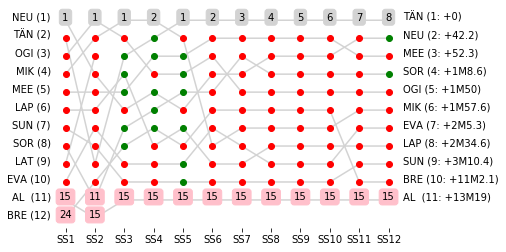
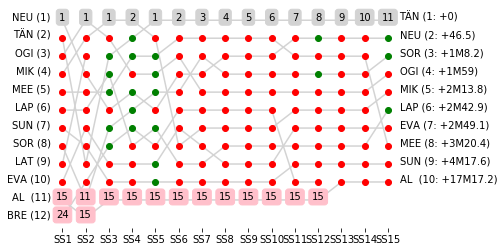
section 8 & 9

diff --git a/Section 8_report.md b/Section 8_report.md
@@ -18,63 +18,67 @@ The full scheduled itinerary for the section was as follows:
 
 
 
+
+
 ### Section 8 Report
 Section 8
 
-![](images/spchart_stage_Section 8.png)
+![](images/spchart_stage_Section 8.png)Section 8
+
+![](images/spchart_overall_Section 8.png)
 Stage Result - SS13
 
-|Driver|            Team             |Elapsed Duration|Position|Class Rank|diffFirst|diffPrev|
-|------|-----------------------------|----------------|--------|----------|---------|--------|
-|SOR   |HYUNDAI SHELL MOBIS WRT      |                |NaN     |NaN       |         |        |
-|OGI   |M-SPORT FORD WORLD RALLY TEAM|                |NaN     |NaN       |         |        |
-|BRE   |CITROEN TOTAL ABU DHABI WRT  |                |NaN     |NaN       |         |        |
-|MEE   |CITROEN TOTAL ABU DHABI WRT  |                |NaN     |NaN       |         |        |
-|NEU   |HYUNDAI SHELL MOBIS WRT      |                |NaN     |NaN       |         |        |
-|TÄN   |TOYOTA GAZOO RACING WRT      |                |NaN     |NaN       |         |        |
-|SUN   |M-SPORT FORD WORLD RALLY TEAM|                |NaN     |NaN       |         |        |
-|AL    |CITROEN TOTAL ABU DHABI WRT  |                |NaN     |NaN       |         |        |
-|EVA   |M-SPORT FORD WORLD RALLY TEAM|                |NaN     |NaN       |         |        |
-|MIK   |HYUNDAI SHELL MOBIS WRT      |                |NaN     |NaN       |         |        |
-|LAP   |TOYOTA GAZOO RACING WRT      |                |NaN     |NaN       |         |        |
+|Driver|            Team             |Elapsed Duration|Position|Class Rank|   diffFirst    |    diffPrev    |
+|------|-----------------------------|----------------|-------:|---------:|----------------|----------------|
+|TÄN   |TOYOTA GAZOO RACING WRT      |00:08:59.9000000|       1|         1|00:00:00        |00:00:00        |
+|NEU   |HYUNDAI SHELL MOBIS WRT      |00:09:02.1000000|       2|         2|00:00:02.2000000|00:00:02.2000000|
+|MEE   |CITROEN TOTAL ABU DHABI WRT  |00:09:02.8000000|       3|         3|00:00:02.9000000|00:00:00.7000000|
+|OGI   |M-SPORT FORD WORLD RALLY TEAM|00:09:03.4000000|       4|         4|00:00:03.5000000|00:00:00.6000000|
+|SOR   |HYUNDAI SHELL MOBIS WRT      |00:09:04.8000000|       5|         5|00:00:04.9000000|00:00:01.4000000|
+|LAP   |TOYOTA GAZOO RACING WRT      |00:09:05.5000000|       6|         6|00:00:05.6000000|00:00:00.7000000|
+|MIK   |HYUNDAI SHELL MOBIS WRT      |00:09:07.2000000|       7|         7|00:00:07.3000000|00:00:01.7000000|
+|SUN   |M-SPORT FORD WORLD RALLY TEAM|00:09:13.4000000|       8|         8|00:00:13.5000000|00:00:06.2000000|
+|EVA   |M-SPORT FORD WORLD RALLY TEAM|00:09:14.9000000|       9|         9|00:00:15        |00:00:01.5000000|
+|AL    |CITROEN TOTAL ABU DHABI WRT  |00:09:37.1000000|      14|        10|00:00:37.2000000|00:00:04.6000000|
+|BRE   |CITROEN TOTAL ABU DHABI WRT  |                |     NaN|       NaN|                |                |
 
 
 
 
 Stage Result - SS14
 
-|Driver|            Team             |Elapsed Duration|Position|Class Rank|diffFirst|diffPrev|
-|------|-----------------------------|----------------|--------|----------|---------|--------|
-|OGI   |M-SPORT FORD WORLD RALLY TEAM|                |NaN     |NaN       |         |        |
-|BRE   |CITROEN TOTAL ABU DHABI WRT  |                |NaN     |NaN       |         |        |
-|SOR   |HYUNDAI SHELL MOBIS WRT      |                |NaN     |NaN       |         |        |
-|MEE   |CITROEN TOTAL ABU DHABI WRT  |                |NaN     |NaN       |         |        |
-|NEU   |HYUNDAI SHELL MOBIS WRT      |                |NaN     |NaN       |         |        |
-|SUN   |M-SPORT FORD WORLD RALLY TEAM|                |NaN     |NaN       |         |        |
-|AL    |CITROEN TOTAL ABU DHABI WRT  |                |NaN     |NaN       |         |        |
-|EVA   |M-SPORT FORD WORLD RALLY TEAM|                |NaN     |NaN       |         |        |
-|MIK   |HYUNDAI SHELL MOBIS WRT      |                |NaN     |NaN       |         |        |
-|LAP   |TOYOTA GAZOO RACING WRT      |                |NaN     |NaN       |         |        |
-|TÄN   |TOYOTA GAZOO RACING WRT      |                |NaN     |NaN       |         |        |
+|Driver|            Team             |Elapsed Duration|Position|Class Rank|   diffFirst    |    diffPrev    |
+|------|-----------------------------|----------------|-------:|---------:|----------------|----------------|
+|TÄN   |TOYOTA GAZOO RACING WRT      |00:08:15.5000000|       1|         1|00:00:00        |00:00:00        |
+|NEU   |HYUNDAI SHELL MOBIS WRT      |00:08:17.6000000|       2|         2|00:00:02.1000000|00:00:02.1000000|
+|SOR   |HYUNDAI SHELL MOBIS WRT      |00:08:17.6000000|       3|         3|00:00:02.1000000|00:00:00        |
+|OGI   |M-SPORT FORD WORLD RALLY TEAM|00:08:18.5000000|       4|         4|00:00:03        |00:00:00.9000000|
+|LAP   |TOYOTA GAZOO RACING WRT      |00:08:18.9000000|       5|         5|00:00:03.4000000|00:00:00.4000000|
+|MEE   |CITROEN TOTAL ABU DHABI WRT  |00:08:19.7000000|       6|         6|00:00:04.2000000|00:00:00.8000000|
+|MIK   |HYUNDAI SHELL MOBIS WRT      |00:08:20.2000000|       7|         7|00:00:04.7000000|00:00:00.5000000|
+|SUN   |M-SPORT FORD WORLD RALLY TEAM|00:08:28.4000000|       8|         8|00:00:12.9000000|00:00:08.2000000|
+|EVA   |M-SPORT FORD WORLD RALLY TEAM|00:08:30        |       9|         9|00:00:14.5000000|00:00:01.6000000|
+|AL    |CITROEN TOTAL ABU DHABI WRT  |00:08:55.2000000|      13|        10|00:00:39.7000000|00:00:07.3000000|
+|BRE   |CITROEN TOTAL ABU DHABI WRT  |                |     NaN|       NaN|                |                |
 
 
 
 
 Stage Result - SS15
 
-|Driver|            Team             |Elapsed Duration|Position|Class Rank|diffFirst|diffPrev|
-|------|-----------------------------|----------------|--------|----------|---------|--------|
-|OGI   |M-SPORT FORD WORLD RALLY TEAM|                |NaN     |NaN       |         |        |
-|BRE   |CITROEN TOTAL ABU DHABI WRT  |                |NaN     |NaN       |         |        |
-|MEE   |CITROEN TOTAL ABU DHABI WRT  |                |NaN     |NaN       |         |        |
-|NEU   |HYUNDAI SHELL MOBIS WRT      |                |NaN     |NaN       |         |        |
-|SOR   |HYUNDAI SHELL MOBIS WRT      |                |NaN     |NaN       |         |        |
-|MIK   |HYUNDAI SHELL MOBIS WRT      |                |NaN     |NaN       |         |        |
-|SUN   |M-SPORT FORD WORLD RALLY TEAM|                |NaN     |NaN       |         |        |
-|AL    |CITROEN TOTAL ABU DHABI WRT  |                |NaN     |NaN       |         |        |
-|LAP   |TOYOTA GAZOO RACING WRT      |                |NaN     |NaN       |         |        |
-|EVA   |M-SPORT FORD WORLD RALLY TEAM|                |NaN     |NaN       |         |        |
-|TÄN   |TOYOTA GAZOO RACING WRT      |                |NaN     |NaN       |         |        |
+|Driver|            Team             |Elapsed Duration|Position|Class Rank|   diffFirst    |    diffPrev    |
+|------|-----------------------------|----------------|-------:|---------:|----------------|----------------|
+|SOR   |HYUNDAI SHELL MOBIS WRT      |00:24:03        |       1|         1|00:00:00        |00:00:00        |
+|LAP   |TOYOTA GAZOO RACING WRT      |00:24:09.7000000|       2|         2|00:00:06.7000000|00:00:06.7000000|
+|NEU   |HYUNDAI SHELL MOBIS WRT      |00:24:10.4000000|       3|         3|00:00:07.4000000|00:00:00.7000000|
+|TÄN   |TOYOTA GAZOO RACING WRT      |00:24:10.4000000|       4|         4|00:00:07.4000000|00:00:00        |
+|OGI   |M-SPORT FORD WORLD RALLY TEAM|00:24:12.9000000|       5|         5|00:00:09.9000000|00:00:02.5000000|
+|MIK   |HYUNDAI SHELL MOBIS WRT      |00:24:14.6000000|       6|         6|00:00:11.6000000|00:00:01.7000000|
+|EVA   |M-SPORT FORD WORLD RALLY TEAM|00:24:24.7000000|       7|         7|00:00:21.7000000|00:00:10.1000000|
+|SUN   |M-SPORT FORD WORLD RALLY TEAM|00:24:51.2000000|       8|         8|00:00:48.2000000|00:00:26.5000000|
+|MEE   |CITROEN TOTAL ABU DHABI WRT  |00:26:31.4000000|      14|         9|00:02:28.4000000|00:00:08.8000000|
+|AL    |CITROEN TOTAL ABU DHABI WRT  |00:26:51.7000000|      17|        10|00:02:48.7000000|00:00:09.9000000|
+|BRE   |CITROEN TOTAL ABU DHABI WRT  |                |     NaN|       NaN|                |                |
 
 
 

diff --git a/Section 9_report.md b/Section 9_report.md
@@ -12,20 +12,44 @@ The full scheduled itinerary for the section was as follows:
 	- 09:55:00 SS17 GIULIO CESARE - MINA CLAVERO (22.41km) [00:03:00]
 	- 11:40:00 TC17A Regrouping and Reordering IN (91.8km) [01:45:00]
 
-### Section 9 Report
 
+
+### Section 9 Report
+Section 9
+
+![](images/spchart_stage_Section 9.png)
 Stage Result - SS16
 
-|Driver|Team|Elapsed Duration|Position|Class Rank|diffFirst|diffPrev|
-|------|----|----------------|--------|----------|---------|--------|
+|Driver|            Team             |Elapsed Duration|Position|Class Rank|diffFirst|diffPrev|
+|------|-----------------------------|----------------|--------|----------|---------|--------|
+|SOR   |HYUNDAI SHELL MOBIS WRT      |                |NaN     |NaN       |         |        |
+|OGI   |M-SPORT FORD WORLD RALLY TEAM|                |NaN     |NaN       |         |        |
+|MIK   |HYUNDAI SHELL MOBIS WRT      |                |NaN     |NaN       |         |        |
+|NEU   |HYUNDAI SHELL MOBIS WRT      |                |NaN     |NaN       |         |        |
+|LAP   |TOYOTA GAZOO RACING WRT      |                |NaN     |NaN       |         |        |
+|EVA   |M-SPORT FORD WORLD RALLY TEAM|                |NaN     |NaN       |         |        |
+|MEE   |CITROEN TOTAL ABU DHABI WRT  |                |NaN     |NaN       |         |        |
+|SUN   |M-SPORT FORD WORLD RALLY TEAM|                |NaN     |NaN       |         |        |
+|AL    |CITROEN TOTAL ABU DHABI WRT  |                |NaN     |NaN       |         |        |
+|TÄN   |TOYOTA GAZOO RACING WRT      |                |NaN     |NaN       |         |        |
 
 
 
 
 Stage Result - SS17
 
-|Driver|Team|Elapsed Duration|Position|Class Rank|diffFirst|diffPrev|
-|------|----|----------------|--------|----------|---------|--------|
+|Driver|            Team             |Elapsed Duration|Position|Class Rank|diffFirst|diffPrev|
+|------|-----------------------------|----------------|--------|----------|---------|--------|
+|SOR   |HYUNDAI SHELL MOBIS WRT      |                |NaN     |NaN       |         |        |
+|OGI   |M-SPORT FORD WORLD RALLY TEAM|                |NaN     |NaN       |         |        |
+|MIK   |HYUNDAI SHELL MOBIS WRT      |                |NaN     |NaN       |         |        |
+|LAP   |TOYOTA GAZOO RACING WRT      |                |NaN     |NaN       |         |        |
+|MEE   |CITROEN TOTAL ABU DHABI WRT  |                |NaN     |NaN       |         |        |
+|SUN   |M-SPORT FORD WORLD RALLY TEAM|                |NaN     |NaN       |         |        |
+|AL    |CITROEN TOTAL ABU DHABI WRT  |                |NaN     |NaN       |         |        |
+|EVA   |M-SPORT FORD WORLD RALLY TEAM|                |NaN     |NaN       |         |        |
+|NEU   |HYUNDAI SHELL MOBIS WRT      |                |NaN     |NaN       |         |        |
+|TÄN   |TOYOTA GAZOO RACING WRT      |                |NaN     |NaN       |         |        |
 
 
 

diff --git a/SUMMARY.md b/SUMMARY.md
@@ -24,6 +24,7 @@
   - [SS7 - AMBOY - YACANTO (II)](SS7_report.md)
   - [SS8 - SANTA ROSA - SAN AGUSTIN (II)](SS8_report.md)
 
+
 * [Section 6](Section 6_report.md)
   - [SS9 - TANTI - MATADEROS (I) ](SS9_report.md)
   - [SS10 - LOS GIGANTES - CUCHILLA NEVADA (I) - Live TV](SS10_report.md)
@@ -36,10 +37,3 @@
   - [SS13 - TANTI - MATADEROS (II) ](SS13_report.md)
   - [SS14 - LOS GIGANTES - CUCHILLA NEVADA (II) - Live TV](SS14_report.md)
   - [SS15 - CUCHILLA NEVADA - RIO PINTOS (II)](SS15_report.md)
-
-* [Section 9](Section 9_report.md)
-  - [SS16 - COPINA - EL CONDOR (Live TV)](SS16_report.md)
-  - [SS17 - GIULIO CESARE - MINA CLAVERO](SS17_report.md)
-
-* [Section 10](Section 10_report.md)
-  - [SS18 - Power Stage EL CONDOR (Live TV)](SS18_report.md)

diff --git a/SS13_report.md b/SS13_report.md
@@ -1,0 +1,3 @@
+# Stage Progress Chart - Argentina, 2018 - TÄN - SS13
+
+![](images/stage_report_13_TAN.png)

diff --git a/SS14_report.md b/SS14_report.md
@@ -1,0 +1,3 @@
+# Stage Progress Chart - Argentina, 2018 - TÄN - SS14
+
+![](images/stage_report_14_TAN.png)

diff --git a/SS15_report.md b/SS15_report.md
@@ -1,0 +1,3 @@
+# Stage Progress Chart - Argentina, 2018 - TÄN - SS15
+
+![](images/stage_report_15_TAN.png)
